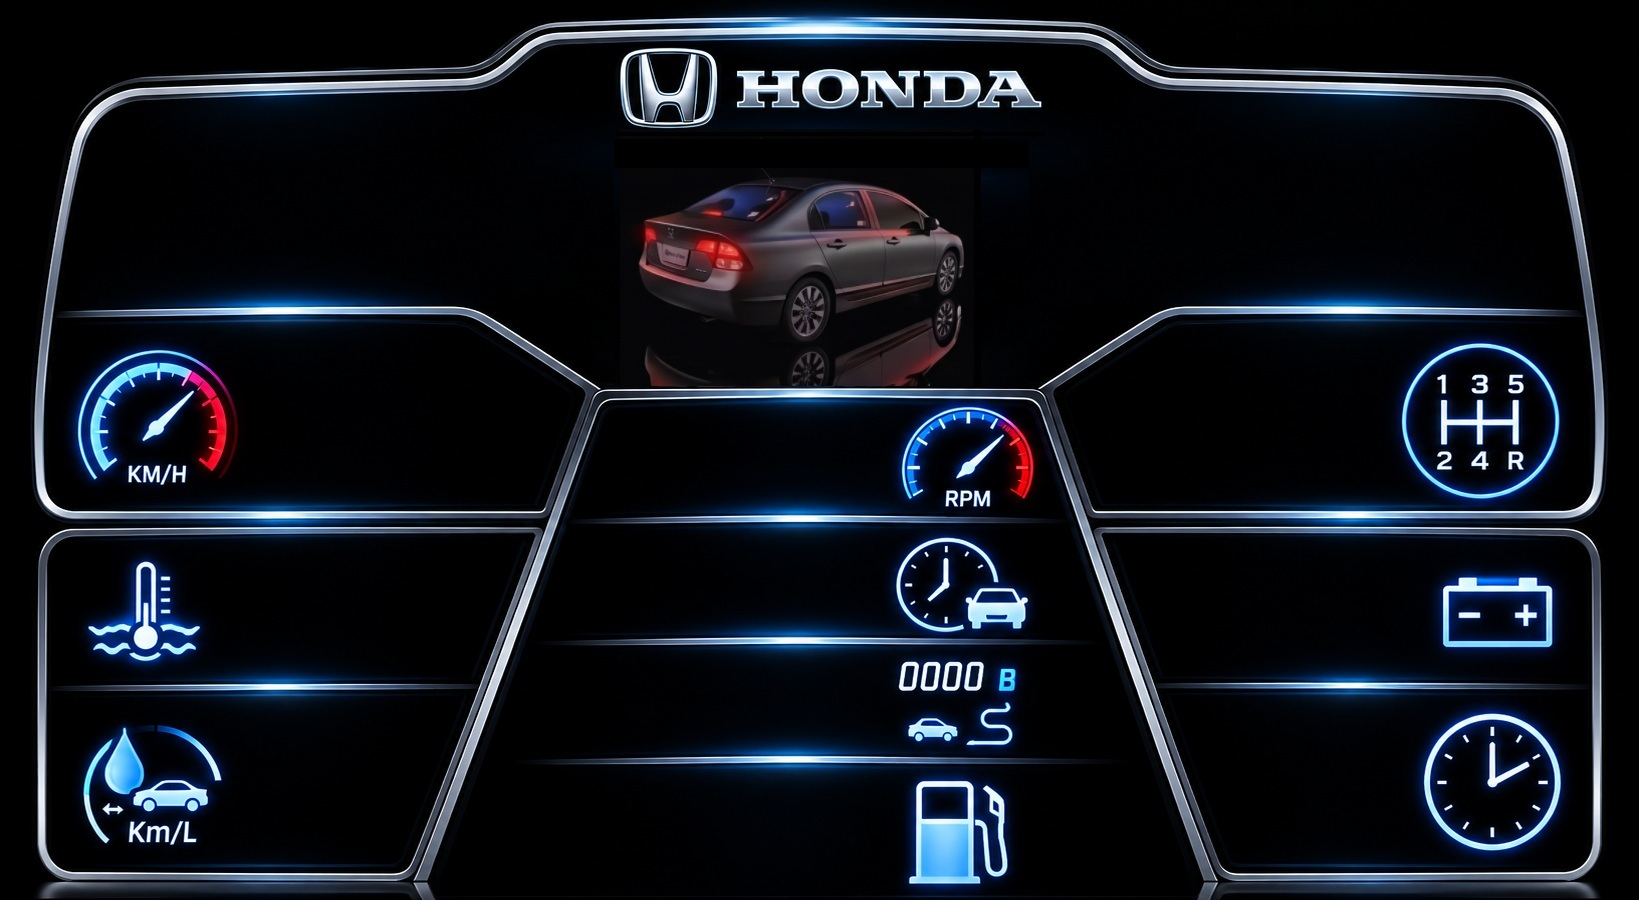
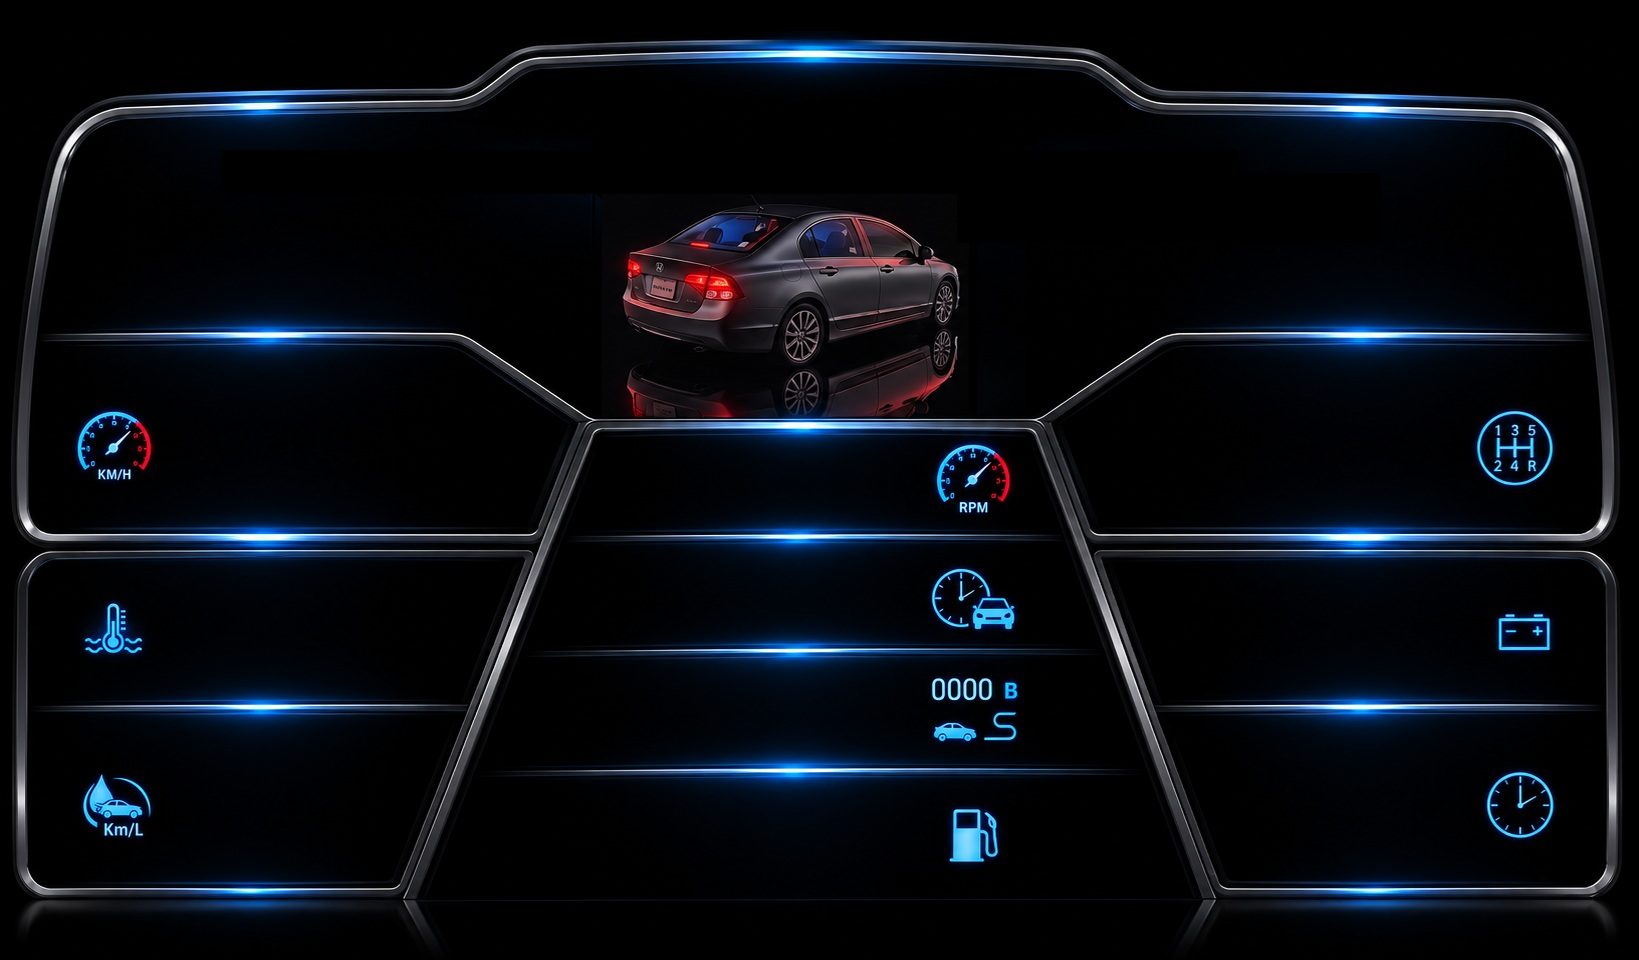
feat: Add Ghosting Effect toggle for 7-segment displays v3.3.1

Changed region(s): [[0.0, 0.0, 0.9957, 1.0]]

diff --git a/app/src/main/java/com/example/digital_obd_ii/presentation/components/Gauges.kt b/app/src/main/java/com/example/digital_obd_ii/presentation/components/Gauges.kt
@@ -1,13 +1,14 @@
 package com.example.digital_obd_ii.presentation.components
 
 /**
- * COMPONENTES DE VISUALIZAÇÃO (GAUGES) v2.5.3
+ * COMPONENTES DE VISUALIZAÇÃO (GAUGES) v3.3.1
  * 
  * OBJETIVO:
  * Fornecer componentes de interface de alta fidelidade para o Dashboard, incluindo
  * Gauges de RPM em arco/reta, Texto em 7-Segmentos e Cards de Informação Digital.
  *
  * HISTÓRICO DE VERSÕES:
+ * v3.3.1 - Adicionado toggle isGhostEnabled para controle dinâmico do fundo de displays.
  * - 2.5.3: Correção crítica na escala de RPM e posição do Redline. Removido teto de 3200 RPM
  *          que causava distorção visual em escalas de 4K/8K.
  * - 2.5.2: Correção de sintaxe e ajuste fino na renderização do Redline.
@@ -95,7 +96,7 @@ val digitSegments = mapOf(
  */
 fun androidx.compose.ui.graphics.drawscope.DrawScope.drawEngine7SegPx(
     char: Char, xPx: Float, yPx: Float, wPx: Float, hPx: Float, tPx: Float, skewDeg: Float,
-    activeColor: Color, ghostColor: Color, isN: Boolean = false
+    activeColor: Color, ghostColor: Color, isN: Boolean = false, isGhostEnabled: Boolean = true
 ) {
     val gap = tPx * 0.15f
     val skewRad = Math.toRadians(skewDeg.toDouble()).toFloat()
@@ -144,8 +145,10 @@ fun androidx.compose.ui.graphics.drawscope.DrawScope.drawEngine7SegPx(
 
     // v1.8.8: Renderiza o Ghost (fundo apagado) APENAS para os segmentos que não estão ativos no char atual
     // Isso garante que o efeito de "display desligado" exista sem bugar os zeros.
-    val ghostStates = BooleanArray(7) { i -> !segs[i] }
-    renderSegments(ghostStates) // Renderiza fundo apagado
+    if (isGhostEnabled) {
+        val ghostStates = BooleanArray(7) { i -> !segs[i] }
+        renderSegments(ghostStates) // Renderiza fundo apagado
+    }
     renderSegments(segs)        // Renderiza segmentos acesos
 
     drawContext.canvas.restore()
@@ -165,7 +168,8 @@ fun SevenSegmentText(
     skewAngleDeg: Float = -12f,
     activeColor: Color = CivicColors.White,
     ghostColor: Color = CivicColors.GhostDark,
-    padLength: Int = 0
+    padLength: Int = 0,
+    isGhostEnabled: Boolean = true
 ) {
     Canvas(modifier = modifier) {
         // Limpeza de string para cálculo de padding (ignora pontuação)
@@ -220,7 +224,7 @@ fun SevenSegmentText(
                     curX += charTotalWidth * 0.6f
                 }
                 else -> {
-                    drawEngine7SegPx(char, curX, 0f, digitWidth, digitHeight, thickness, skewAngleDeg, activeColor, ghostColor, char == 'N')
+                    drawEngine7SegPx(char, curX, 0f, digitWidth, digitHeight, thickness, skewAngleDeg, activeColor, ghostColor, char == 'N', isGhostEnabled)
                     curX += charTotalWidth
                 }
             }

diff --git a/app/src/main/java/com/example/digital_obd_ii/data/repository/ProfileRepositoryImpl.kt b/app/src/main/java/com/example/digital_obd_ii/data/repository/ProfileRepositoryImpl.kt
@@ -12,7 +12,7 @@ package com.example.digital_obd_ii.data.repository
  * v2.10.0 - SHIFT LIGHT CUSTOM: Adicionada persistência para shiftLightTargetMode e sensitivity.
  * v2.7.1 - Ajuste fino de layout v2.
  * v3.1.3 - Correção de regressão na Posição Y padrão da Barra de RPM.
- * v3.3.0 - Sincronização de altura RPM 39.9 e texto 25.0 pós-testes.
+ * v3.3.1 - Persistência do estado do Efeito Ghosting.
  */
 
 import android.content.Context
@@ -50,6 +50,7 @@ class ProfileRepositoryImpl @Inject constructor(
         val DIGIT_HEIGHT = floatPreferencesKey("digit_height")
         val DIGIT_THICKNESS = floatPreferencesKey("digit_thickness")
         val DIGIT_SKEW = floatPreferencesKey("digit_skew")
+        val IS_GHOST_ENABLED = booleanPreferencesKey("is_ghost_enabled")
         
         val BACKGROUND_PATH = stringPreferencesKey("background_path")
         val ELEMENTS_CONFIG = stringPreferencesKey("elements_config_v12")
@@ -128,6 +129,7 @@ class ProfileRepositoryImpl @Inject constructor(
             digitHeight = preferences[PreferencesKeys.DIGIT_HEIGHT] ?: 110f,
             digitThickness = preferences[PreferencesKeys.DIGIT_THICKNESS] ?: 14f,
             digitSkew = preferences[PreferencesKeys.DIGIT_SKEW] ?: -12f,
+            isGhostEnabled = preferences[PreferencesKeys.IS_GHOST_ENABLED] ?: true,
             backgroundPath = bgPath,
             isCustomBackground = preferences[PreferencesKeys.IS_CUSTOM_BG_V2] ?: false,
             devicePreset = preset,
@@ -181,6 +183,7 @@ class ProfileRepositoryImpl @Inject constructor(
             preferences[PreferencesKeys.DIGIT_HEIGHT] = profile.digitHeight
             preferences[PreferencesKeys.DIGIT_THICKNESS] = profile.digitThickness
             preferences[PreferencesKeys.DIGIT_SKEW] = profile.digitSkew
+            preferences[PreferencesKeys.IS_GHOST_ENABLED] = profile.isGhostEnabled
             
             profile.backgroundPath?.let { preferences[PreferencesKeys.BACKGROUND_PATH] = it } ?: preferences.remove(PreferencesKeys.BACKGROUND_PATH)
             preferences[PreferencesKeys.IS_CUSTOM_BG_V2] = profile.isCustomBackground

diff --git a/app/src/main/java/com/example/digital_obd_ii/presentation/profile/ui/VisualSettingsScreen.kt b/app/src/main/java/com/example/digital_obd_ii/presentation/profile/ui/VisualSettingsScreen.kt
@@ -256,6 +256,10 @@ fun VisualSettingsScreen(
                         Text("Efeito Glow (Brilho)", modifier = Modifier.weight(1f))
                         Switch(checked = uiState.profile.isRpmGlowEnabled, onCheckedChange = { viewModel.updateIsRpmGlowEnabled(it) })
                     }
+                    Row(verticalAlignment = Alignment.CenterVertically) {
+                        Text("Efeito Ghosting (Displays)", modifier = Modifier.weight(1f))
+                        Switch(checked = uiState.profile.isGhostEnabled, onCheckedChange = { viewModel.updateIsGhostEnabled(it) })
+                    }
                     
                     HorizontalDivider(modifier = Modifier.padding(vertical = 8.dp))
                     Text("Escala de RPM", style = MaterialTheme.typography.labelLarge, color = CivicColors.BlueGlow)
@@ -430,7 +434,8 @@ fun VisualSettingsScreen(
                                 digitHeight = uiState.profile.digitHeight * config.scale * previewScale.avgScale,
                                 thickness = uiState.profile.digitThickness * config.scale * previewScale.avgScale,
                                 skewAngleDeg = uiState.profile.digitSkew,
-                                activeColor = Color.White
+                                activeColor = Color.White,
+                                isGhostEnabled = uiState.profile.isGhostEnabled
                             )
                         }
                     }

diff --git a/app/src/main/java/com/example/digital_obd_ii/domain/model/VehicleProfile.kt b/app/src/main/java/com/example/digital_obd_ii/domain/model/VehicleProfile.kt
@@ -10,7 +10,7 @@
  * v2.10.0 - Customização do Shift Light (Modo de Alvo e Sensibilidade).
  * v3.0.0 - Matriz de Multi-Layout (10 Backgrounds x 2 Presets de Dispositivo).
  * v3.1.2 - Sincronização de layout Multimídia v1.
- * v3.3.0 - Ajuste Fino Multimídia pós-testes reais (Altura RPM 39.9 e Y:225 para Speed/Gears).
+ * v3.3.1 - Adicionado controle de Efeito Ghosting.
  *
  * Status: Estável.
  */
@@ -100,6 +100,7 @@ data class VehicleProfile(
     val digitHeight: Float = 110f,
     val digitThickness: Float = 14f,
     val digitSkew: Float = -12f,
+    val isGhostEnabled: Boolean = true,
     
     val backgroundPath: String? = "dashboard_bg_1.jpg",
     val isCustomBackground: Boolean = false,

diff --git a/app/src/main/java/com/example/digital_obd_ii/presentation/dashboard/ui/DashboardScreen.kt b/app/src/main/java/com/example/digital_obd_ii/presentation/dashboard/ui/DashboardScreen.kt
@@ -1,5 +1,5 @@
 /**
- * UI: DashboardScreen v3.3.0
+ * UI: DashboardScreen v3.3.1
  * Objetivo: Tela principal de exibição de dados do veículo em tempo real.
  * 
  * HISTÓRICO:
@@ -203,7 +203,8 @@ fun DashboardScreen(
                         thickness = uiState.profile.digitThickness * config.scale * screenScale.avgScale,
                         skewAngleDeg = uiState.profile.digitSkew,
                         activeColor = color,
-                        padLength = pad
+                        padLength = pad,
+                        isGhostEnabled = uiState.profile.isGhostEnabled
                     )
                 }
             }

diff --git a/app/src/main/java/com/example/digital_obd_ii/presentation/profile/VehicleProfileViewModel.kt b/app/src/main/java/com/example/digital_obd_ii/presentation/profile/VehicleProfileViewModel.kt
@@ -128,6 +128,10 @@ class VehicleProfileViewModel @Inject constructor(
         _uiState.update { it.copy(profile = it.profile.copy(digitThickness = value)) }
     }
 
+    fun updateIsGhostEnabled(enabled: Boolean) {
+        _uiState.update { it.copy(profile = it.profile.copy(isGhostEnabled = enabled)) }
+    }
+
     fun updateDevicePreset(preset: DevicePreset) {
         _uiState.update { state ->
             val oldProfile = state.profile

diff --git a/app/src/main/java/com/example/digital_obd_ii/presentation/dashboard/DashboardViewModel.kt b/app/src/main/java/com/example/digital_obd_ii/presentation/dashboard/DashboardViewModel.kt
@@ -1,7 +1,7 @@
 package com.example.digital_obd_ii.presentation.dashboard
 
 /**
- * VIEWMODEL: DashboardViewModel v3.3.0
+ * VIEWMODEL: DashboardViewModel v3.3.1
  * 
  * OBJETIVO:
  * Orquestrar o fluxo de dados em tempo real entre o repositório OBD e a UI do Dashboard.

diff --git a/docs/CHANGELOG.md b/docs/CHANGELOG.md
@@ -1,5 +1,10 @@
 # CHANGELOG - Digital OBD-II
 
+## [3.3.1] - 2026-09-08
+### Adicionado
+- **Controle de Ghosting**: Novo botão de liga/desliga no menu de personalização visual para o efeito de "fundo apagado" (888) nos displays de 7 segmentos.
+- **Persistência**: O estado do Ghosting é salvo no perfil do veículo e aplicado globalmente.
+
 ## [3.3.0] - 2026-09-08
 ### Adicionado
 - **Ajuste Fino Multimídia pós-testes reais**: Atualização do preset "Multimídia (Menor)" com novas coordenadas Y:225 para Speed/Gears e altura de RPM reduzida para 39.9px.
